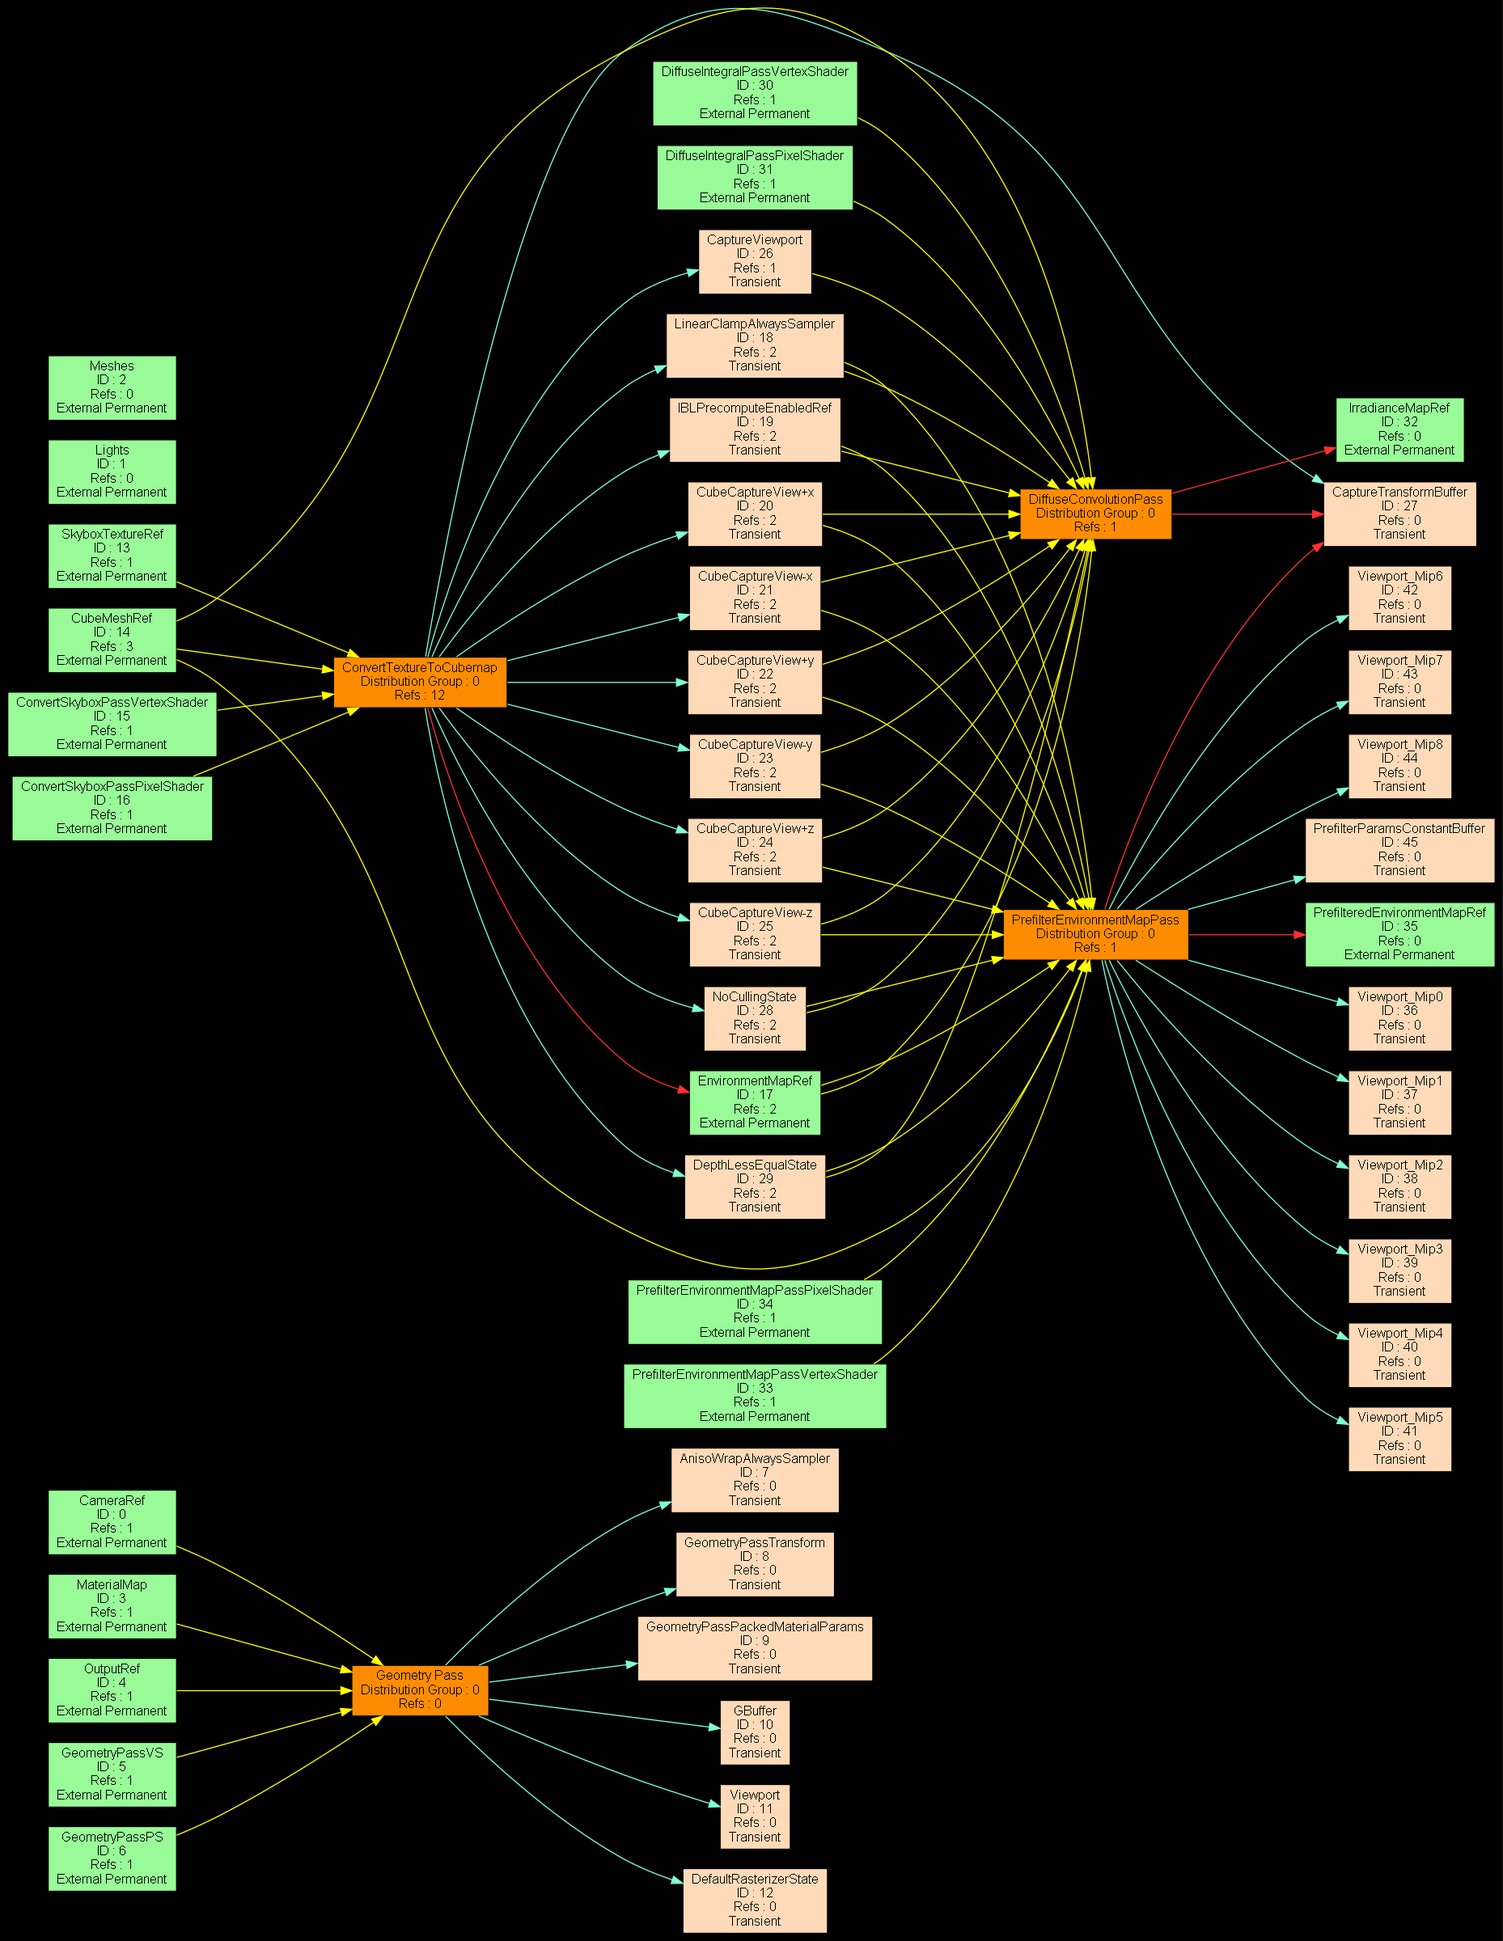
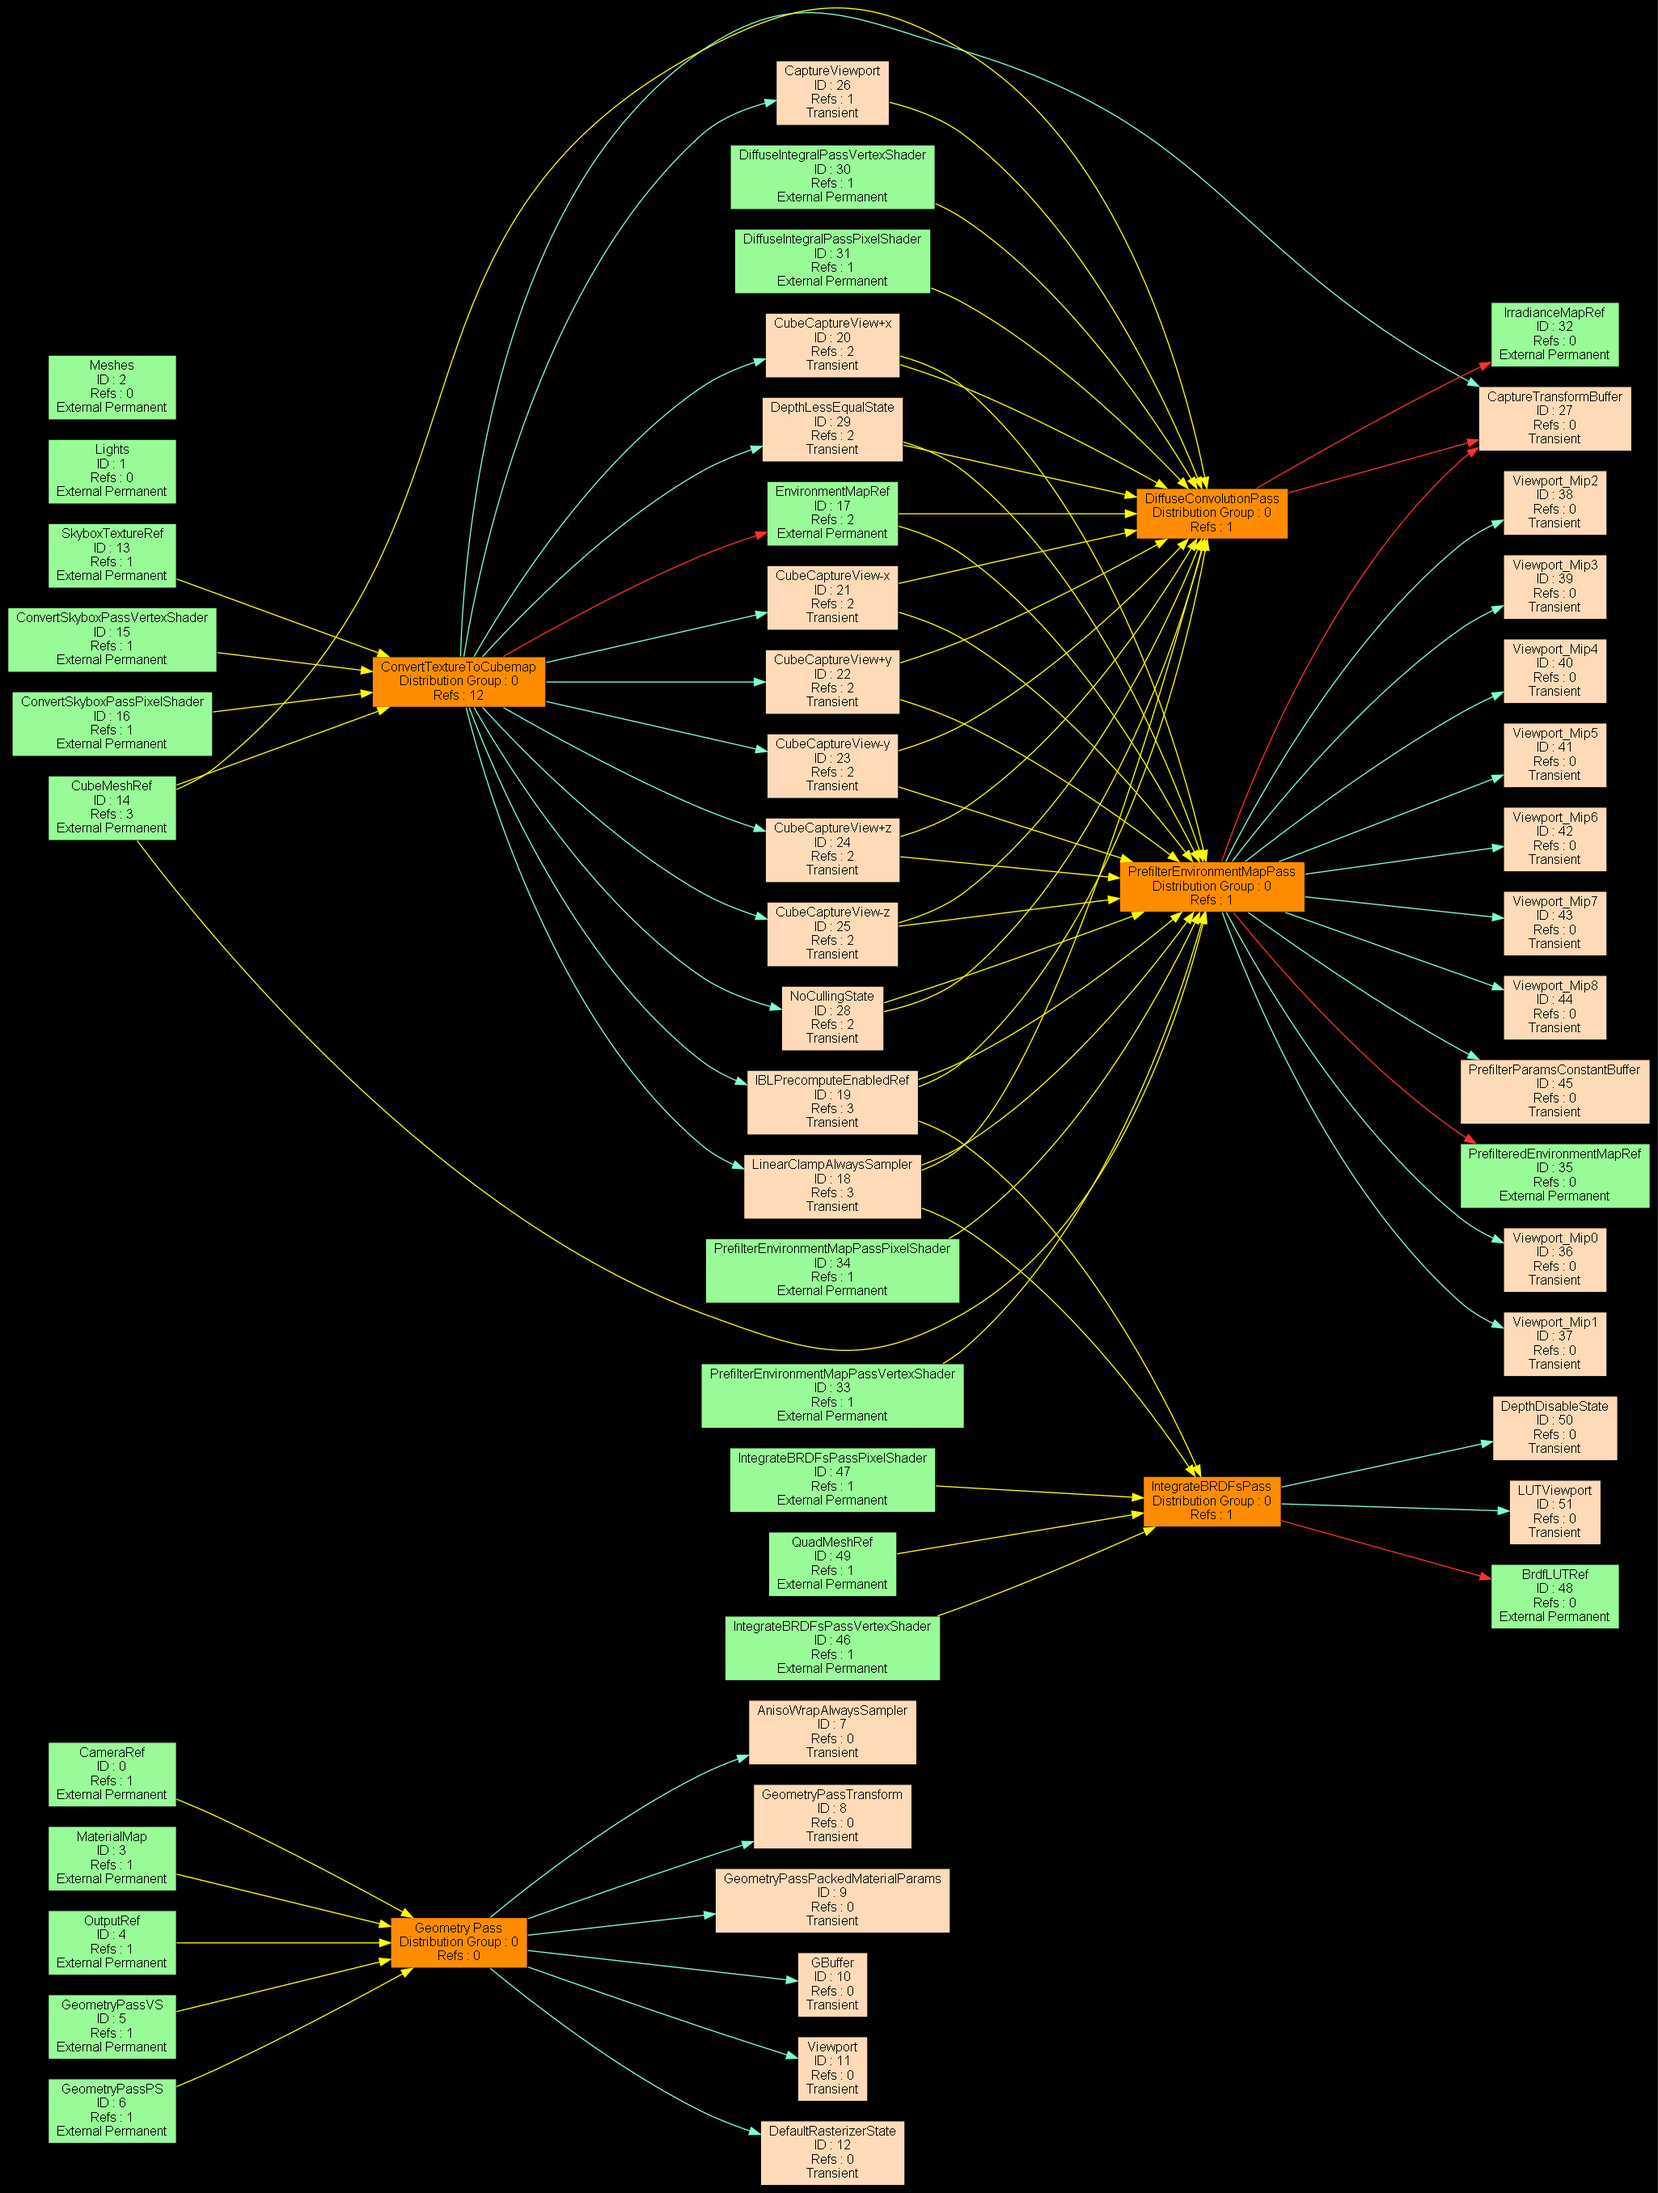
Precompute(Integrate) Brdf pass를 frame graph로 포팅하였습니다

diff --git a/Sources/Runtime/Rendering/RendererPBR.cpp b/Sources/Runtime/Rendering/RendererPBR.cpp
@@ -75,12 +75,18 @@ namespace Mile
       m_diffuseIntegralPassVS(nullptr),
       m_diffuseIntegralPassPS(nullptr),
       m_prefilteredEnvMap(nullptr),
-      m_brdfLUT(nullptr)
+      m_prefilterEnvPassVS(nullptr),
+      m_prefilterEnvPassPS(nullptr),
+      m_brdfLUT(nullptr),
+      m_integrateBRDFPassVS(nullptr),
+      m_integrateBRDFPassPS(nullptr)
    {
    }
 
    RendererPBR::~RendererPBR()
    {
+      SafeDelete(m_integrateBRDFPassPS);
+      SafeDelete(m_integrateBRDFPassVS);
       SafeDelete(m_brdfLUT);
       SafeDelete(m_prefilteredEnvMap);
       SafeDelete(m_irradianceMap);
@@ -191,6 +197,24 @@ namespace Mile
       if (m_prefilterEnvPassPS == nullptr)
       {
          ME_LOG(MileRendererPBR, Fatal, TEXT("Failed to load prefilter environment map pass pixel shader!"));
+         return false;
+      }
+
+      /** Integrate BRDF Pass Shaders */
+      ShaderDescriptor integrateBRDFPassDesc;
+      integrateBRDFPassDesc.Renderer = this;
+      integrateBRDFPassDesc.FilePath = TEXT("Contents/Shaders/IntegrateBRDF.hlsl");
+      m_integrateBRDFPassVS = Elaina::Realize<ShaderDescriptor, VertexShaderDX11>(integrateBRDFPassDesc);
+      if (m_integrateBRDFPassVS == nullptr)
+      {
+         ME_LOG(MileRendererPBR, Fatal, TEXT("Failed to load integrate brdfs pass vertex shader!"));
+         return false;
+      }
+
+      m_integrateBRDFPassPS = Elaina::Realize<ShaderDescriptor, PixelShaderDX11>(integrateBRDFPassDesc);
+      if (m_integrateBRDFPassPS == nullptr)
+      {
+         ME_LOG(MileRendererPBR, Fatal, TEXT("Failed to load integrate brdfs pass pixel shader!"));
          return false;
       }
 
@@ -559,7 +583,6 @@ namespace Mile
             }
          });
 
-      convertSkyboxToCubemapPass->SetCullImmune(true);
       auto convertSkyboxToCubemapPassData = convertSkyboxToCubemapPass->GetData();
 
       /** Solve Diffuse Integral */
@@ -830,6 +853,112 @@ namespace Mile
       auto prefilterEnvMapPassData = prefilterEnvMapPass->GetData();
 
       /** Integrate BRDF */
+      struct IntegrateBRDFPassData : public RenderPassDataBase
+      {
+         BoolRefResource* IBLPrecomputeEnabledRef = nullptr;
+
+         SamplerResource* Sampler = nullptr;
+
+         DepthStencilStateResource* DepthDisableState = nullptr;
+         ViewportResource* Viewport = nullptr;
+         MeshRefResource* QuadMeshRef = nullptr;
+         RenderTargetRefResource* OutputBrdfLUTRef = nullptr;
+      };
+
+      auto intergrateBRDFPassVSRes = m_frameGraph.AddExternalPermanentResource(
+         "IntegrateBRDFsPassVertexShader",
+         ShaderDescriptor(),
+         m_integrateBRDFPassVS);
+
+      auto integrateBRDFPassPSRes = m_frameGraph.AddExternalPermanentResource(
+         "IntegrateBRDFsPassPixelShader",
+         ShaderDescriptor(),
+         m_integrateBRDFPassPS);
+
+      RenderTargetDescriptor brdfLUTDesc;
+      brdfLUTDesc.Renderer = this;
+      brdfLUTDesc.Width = RendererPBRConstants::BRDFLUTSize;
+      brdfLUTDesc.Height = RendererPBRConstants::BRDFLUTSize;
+      brdfLUTDesc.Format = EColorFormat::R16G16_FLOAT;
+      m_brdfLUT = Elaina::Realize<RenderTargetDescriptor, RenderTargetDX11>(brdfLUTDesc);
+
+      auto brdfLUTReftRes = m_frameGraph.AddExternalPermanentResource(
+         "BrdfLUTRef",
+         RenderTargetRefDescriptor(),
+         &m_brdfLUT);
+
+      auto quadMeshRefRes = m_frameGraph.AddExternalPermanentResource(
+         "QuadMeshRef",
+         MeshRefDescriptor(),
+         &m_quadMesh);
+
+      auto integrateBRDFPass = m_frameGraph.AddCallbackPass<IntegrateBRDFPassData>(
+         "IntegrateBRDFsPass",
+         [&](Elaina::RenderPassBuilder& builder, IntegrateBRDFPassData& data)
+         {
+            data.Renderer = this;
+            data.VertexShader = builder.Read(intergrateBRDFPassVSRes);
+            data.PixelShader = builder.Read(integrateBRDFPassPSRes);
+            data.Sampler = builder.Read(prefilterEnvMapPassData.Sampler);
+
+            data.IBLPrecomputeEnabledRef = builder.Read(prefilterEnvMapPassData.IBLPrecomputeEnabledRef);
+
+            DepthStencilStateDescriptor dsStateDesc;
+            dsStateDesc.Renderer = this;
+            dsStateDesc.bDepthEnable = false;
+            data.DepthDisableState = builder.Create<DepthStencilStateResource>("DepthDisableState", dsStateDesc);
+
+            ViewportDescriptor viewportDesc;
+            viewportDesc.Renderer = this;
+            viewportDesc.Width = RendererPBRConstants::BRDFLUTSize;
+            viewportDesc.Height = RendererPBRConstants::BRDFLUTSize;
+            data.Viewport = builder.Create<ViewportResource>("LUTViewport", viewportDesc);
+            data.QuadMeshRef = builder.Read(quadMeshRefRes);
+
+            data.OutputBrdfLUTRef = builder.Write(brdfLUTReftRes);
+         },
+         [](const IntegrateBRDFPassData& data)
+         {
+            BoolRef bIBLPrecomputeEnabledRef = (*data.IBLPrecomputeEnabledRef->GetActual());
+            if (bIBLPrecomputeEnabledRef != nullptr && (*bIBLPrecomputeEnabledRef))
+            {
+               ID3D11DeviceContext& immediateContext = data.Renderer->GetImmediateContext();
+               immediateContext.ClearState();
+
+               immediateContext.IASetPrimitiveTopology(D3D11_PRIMITIVE_TOPOLOGY_TRIANGLELIST);
+
+               auto vertexShader = data.VertexShader->GetActual();
+               auto pixelShader = data.PixelShader->GetActual();
+               auto sampler = data.Sampler->GetActual();
+               auto depthDisableState = data.DepthDisableState->GetActual();
+               auto viewport = data.Viewport->GetActual();
+               auto quadMesh = *data.QuadMeshRef->GetActual();
+               auto outputBrdfLUT = *data.OutputBrdfLUTRef->GetActual();
+
+               viewport->SetWidth(outputBrdfLUT->GetWidth());
+               viewport->SetHeight(outputBrdfLUT->GetHeight());
+
+               /** Binds */
+               vertexShader->Bind(immediateContext);
+               pixelShader->Bind(immediateContext);
+               sampler->Bind(immediateContext, 0);
+               depthDisableState->Bind(immediateContext);
+               viewport->Bind(immediateContext);
+               quadMesh->Bind(immediateContext, 0);
+               outputBrdfLUT->BindAsRenderTarget(immediateContext);
+
+               /** Render */
+               immediateContext.DrawIndexed(quadMesh->GetIndexCount(), 0, 0);
+
+               /** Unbinds */
+               outputBrdfLUT->UnbindRenderTarget(immediateContext);
+               sampler->Unbind(immediateContext);
+               pixelShader->Unbind(immediateContext);
+               vertexShader->Unbind(immediateContext);
+
+               (*bIBLPrecomputeEnabledRef) = false;
+            }
+         });
 
       /** Lighting Pass; Deferred Shading - Lighting */
 
@@ -839,6 +968,7 @@ namespace Mile
 
       Elaina::VisualizeParams visualizeParams;
       visualizeParams.bSplines = true;
+      visualizeParams.RankSep = 2.0;
       m_frameGraph.ExportVisualization("RendererPBR.dot", visualizeParams);
       return true;
    }

diff --git a/Sources/Runtime/Rendering/RendererPBR.h b/Sources/Runtime/Rendering/RendererPBR.h
@@ -13,6 +13,7 @@ namespace Mile
       constexpr unsigned int IrradianceMapSize = 32;
       constexpr unsigned int PrefilteredEnvMapSize = 512;
       constexpr unsigned int PrefilteredEnvMapMaxMipLevels = 6 + 1;
+      constexpr unsigned int BRDFLUTSize = 512;
    }
 
    struct RenderPassDataBase
@@ -57,6 +58,9 @@ namespace Mile
       VertexShaderDX11* m_prefilterEnvPassVS;
       PixelShaderDX11* m_prefilterEnvPassPS;
 
+      VertexShaderDX11* m_integrateBRDFPassVS;
+      PixelShaderDX11* m_integrateBRDFPassPS;
+
       /** External Resources; Don't delete in renderer! */
       /** Per Frame Datas */
       std::vector<CameraComponent*> m_cameras;
@@ -66,7 +70,7 @@ namespace Mile
       MaterialMap m_materialMap;
       RenderTargetDX11* m_outputRenderTarget;
 
-      /** Skybox */
+      /** Skybox/IBL */
       Texture2D* m_skyboxTexture;
       Texture2D* m_oldSkyboxTexture;
       bool m_bPrecomputeIBL;
